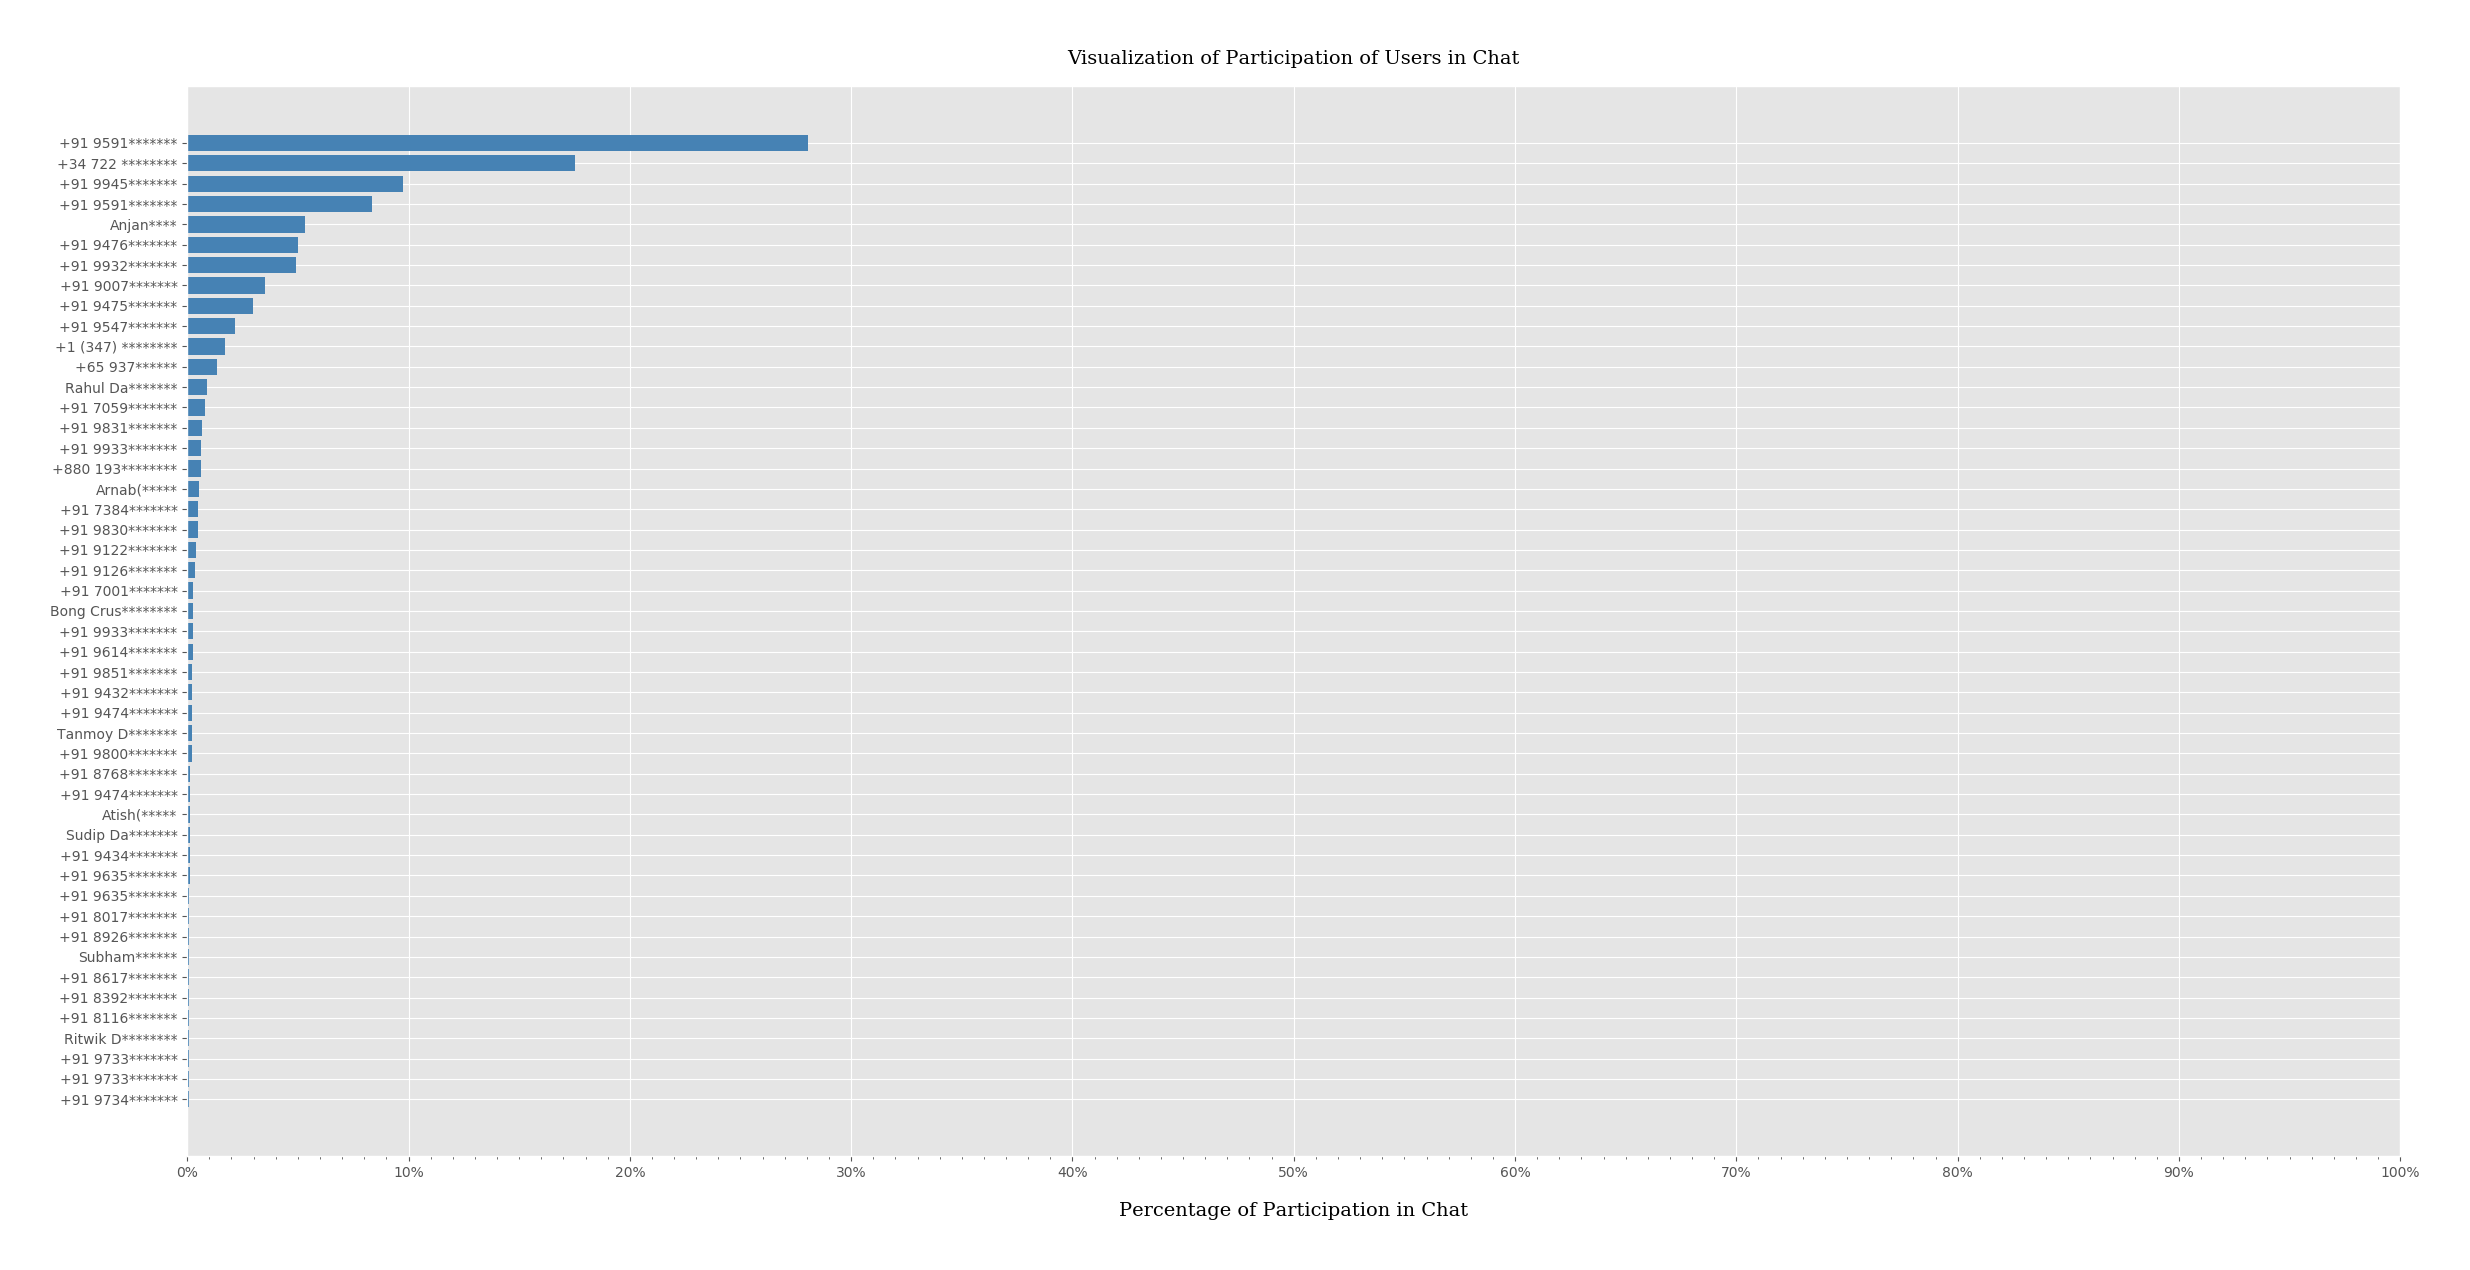
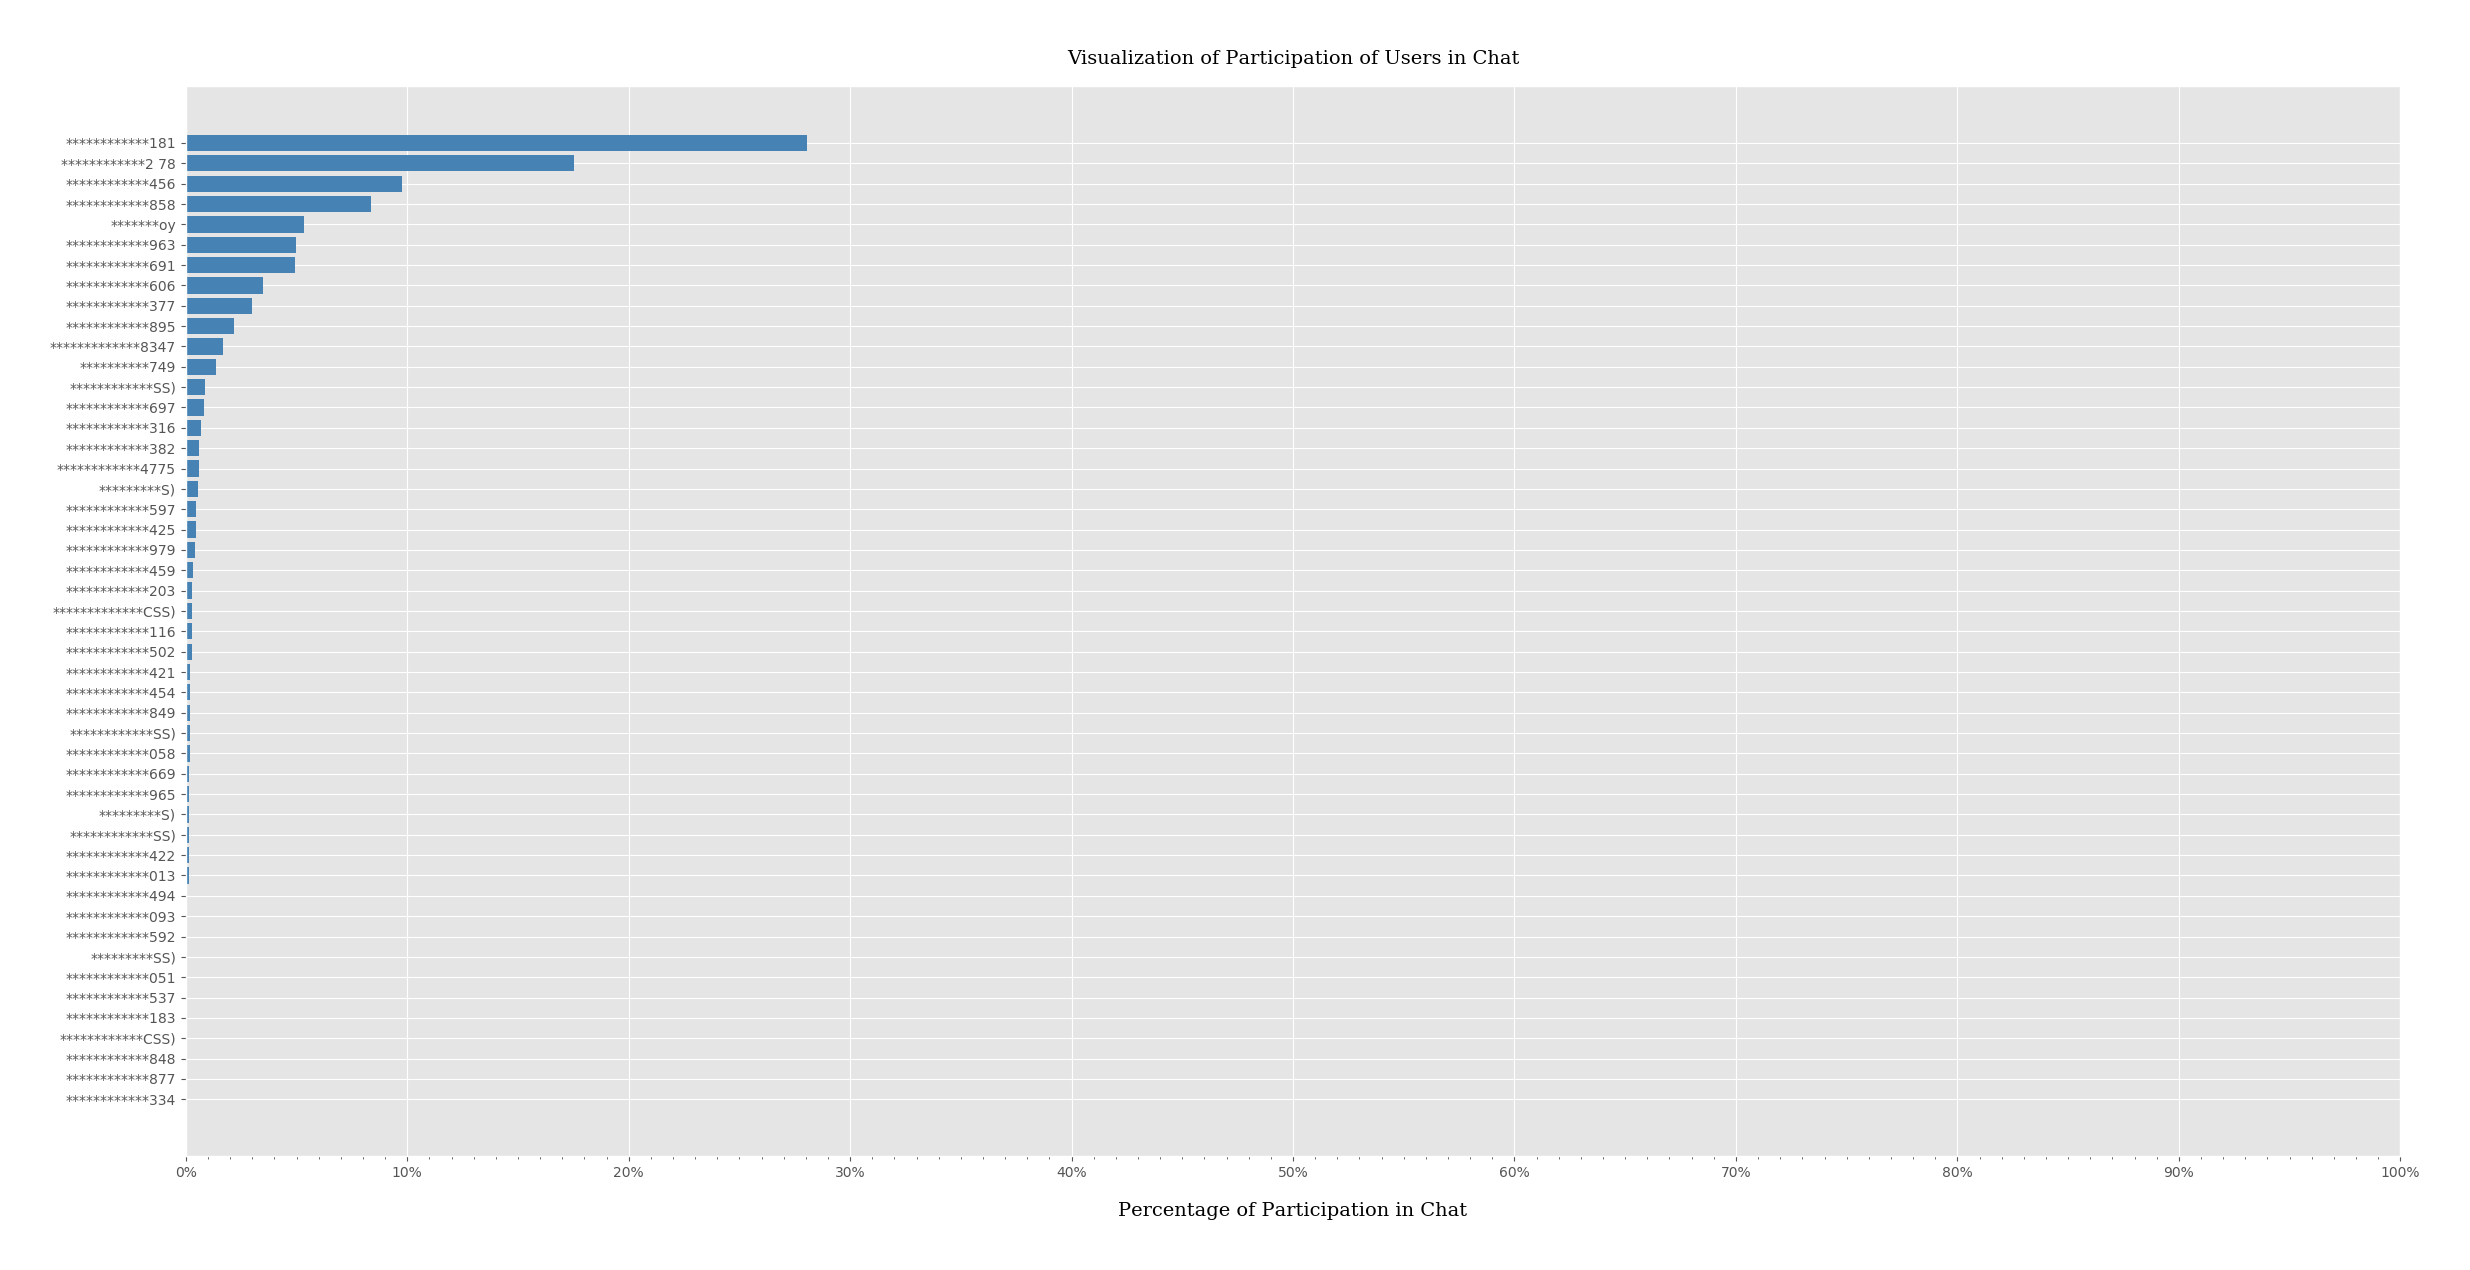
generated activity depictin Pie charts for group participants & updated readme

Changed region(s): [[0.0312, 0.0921, 0.0935, 0.8906], [0.4676, 0.952, 0.4988, 0.9827]]

diff --git a/app.py b/app.py
@@ -18,15 +18,21 @@ def main() -> float:
 
     try:
         return __calculatePercentageOfSuccess__(
-            [  # plotContributionInChatByUser(Chat.importFromText('./data/private.txt'), './plots/participationInPrivateChatByUser.png', 'Visualization of Participation of Users in Chat'),
-                # plotContributionInChatByUser(Chat.importFromText(
-                #  './data/group.txt'), './plots/participationInGroupChatByUser.png', 'Visualization of Participation of Users in Chat'),
+            [plotContributionInChatByUser(Chat.importFromText('./data/private.txt'), './plots/participationInPrivateChatByUser.png', 'Visualization of Participation of Users in Chat'),
+                plotContributionInChatByUser(Chat.importFromText(
+                    './data/group.txt'), './plots/participationInGroupChatByUser.png', 'Visualization of Participation of Users in Chat'),
                 *reduce(lambda acc, cur:
                         [plotContributionOfUserByHour(
                             cur.messages, './plots/contributionInPrivateChatOf{}ByHour.png'.format(
-                                shadeContactName('_'.join(cur.name.split(' ')))),
-                            'Visualization of {}\'s Participation in Private Chat'.format(shadeContactName(cur.name)))] + acc,
-                        Chat.importFromText('./data/private.txt').users, [])])
+                                shadeContactName('_'.join(cur.name.split(' ')), percent=75)),
+                            'Visualization of {}\'s Participation in Private Chat'.format(shadeContactName(cur.name, percent=75)))] + acc,
+                        Chat.importFromText('./data/private.txt').users, []),
+             *reduce(lambda acc, cur:
+                     [plotContributionOfUserByHour(
+                         cur.messages, './plots/contributionInGroupChatOf{}ByHour.png'.format(
+                             shadeContactName('_'.join(cur.name.split(' ')), percent=75)),
+                         'Visualization of {}\'s Participation in Group Chat'.format(shadeContactName(cur.name, percent=75)))] + acc,
+                     Chat.importFromText('./data/group.txt').users, [])])
     except Exception:
         return 0.0
 

diff --git a/util.py b/util.py
@@ -6,6 +6,7 @@ from os import mkdir
 from functools import reduce
 from typing import Dict, List
 from collections import OrderedDict
+from math import ceil
 try:
     from matplotlib import pyplot as plt
     from matplotlib.ticker import MultipleLocator, PercentFormatter
@@ -26,9 +27,9 @@ def directoryBuilder(targetPath: str):
         mkdir(dirName)
 
 
-# shades last half of characters of Contact by `*`, for sake of privacy
-def shadeContactName(name: str) -> str:
-    return name[:-(len(name)//2)]+'*'*(len(name)//2)
+# shades first half of characters of Contact by `*`, for sake of privacy
+def shadeContactName(name: str, percent: float = 50.0, where: str = 'f') -> str:
+    return '*'*ceil(len(name)*percent/100) + name[ceil(len(name)*percent/100):] if where.lower() == 'f' else name[:-ceil(len(name)*percent/100)] + '*'*ceil(len(name)*percent/100)
 
 
 '''
@@ -44,7 +45,7 @@ def plotContributionInChatByUser(chat: Chat, targetPath: str, title: str) -> boo
                    key=lambda e: len(chat.getUser(e).messages))
         y_pos = range(len(y))
         x = [len(chat.getUser(i).messages)/chat.messageCount*100 for i in y]
-        y = [shadeContactName(i) for i in y]
+        y = [shadeContactName(i, percent=75) for i in y]
         with plt.style.context('ggplot'):
             font = {
                 'family': 'serif',

diff --git a/README.md b/README.md
@@ -6,7 +6,7 @@ A simple WhatsApp Chat Analyzer ( for both Private &amp; Group chats ), made wit
 - I was interested in learning how much time I'm spending on WhatsApp _or_ in which conversation I'm more or less involved/ attached _or_ at which part of day I'm more involved in Chatting etc.
 - So I'm writing these scripts for analyzing **WhatsApp** Chat _( both Private & Group )_, which can easily be exported into a _*.txt_ file from WhatsApp Mobile Application.
 - That _*.txt_ is parsed, cleaned & objectified, so that it can be analyzed with ease.
-- For sake of **Privacy** test data file(s), which were used for plotting following chart(s), are kept private.
+- For sake of **Privacy** test data file(s), which were used for plotting following chart(s), are kept private. Also Contact Name(s)/ Number(s) are partially grayed.
 ## chanalysis _( Chat Analysis )_
 ### 1. Participation of Users in Chat
 _Following Bar chart depicts how two participants in a Private Chat contributed to that Chat_
@@ -18,6 +18,74 @@ _This one depicts how participants in a Group Chat contributed to that Chat_
 ![participationInGroupChatByUser](plots/participationInGroupChatByUser.png)
 
 _For sake of **Privacy** Participants' Contact Names/ Numbers are partially grayed_
+
+---
+
+### 2. Contribution of Users in Chat by Hour
+I splitted a day into 8 equal halves and extracted statistics of activity ( mine & others too ) for each of those timespans, to learn when users are more active. And no doubt result was interesting _( atleast for Group Chat :wink: )_.
+
+- 00:00:00 - 02:59:59
+- 03:00:00 - 05:59:59
+- 06:00:00 - 08:59:59
+- 09:00:00 - 11:59:59
+- 12:00:00 - 14:59:59
+- 15:00:00 - 17:59:59
+- 18:00:00 - 20:59:59
+- 21:00:00 - 23:59:59
+
+Following Pie charts show how two participants contributed to a Private chat i.e. how much active were they at which time period.
+
+![activityOfParticipantOne](plots/contributionInPrivateChatOf*******oyByHour.png)
+
+![activityOfParticipantOne](plots/contributionInPrivateChatOf******************atty_\)ByHour.png)
+
+Following Pie charts showing how participants were contributing in a Group Chat.
+
+![activityOfParticipantInGroupChat](plots/contributionInGroupChatOf************SS\)ByHour.png)
+![activityOfParticipantInGroupChat](plots/contributionInGroupChatOf************597ByHour.png)
+![activityOfParticipantInGroupChat](plots/contributionInGroupChatOf************377ByHour.png)
+![activityOfParticipantInGroupChat](plots/contributionInGroupChatOf************965ByHour.png)
+![activityOfParticipantInGroupChat](plots/contributionInGroupChatOf************316ByHour.png)
+![activityOfParticipantInGroupChat](plots/contributionInGroupChatOf************895ByHour.png)
+![activityOfParticipantInGroupChat](plots/contributionInGroupChatOf************494ByHour.png)
+![activityOfParticipantInGroupChat](plots/contributionInGroupChatOf************013ByHour.png)
+![activityOfParticipantInGroupChat](plots/contributionInGroupChatOf*************CSS\)ByHour.png)
+![activityOfParticipantInGroupChat](plots/contributionInGroupChatOf**********749ByHour.png)
+![activityOfParticipantInGroupChat](plots/contributionInGroupChatOf************858ByHour.png)
+![activityOfParticipantInGroupChat](plots/contributionInGroupChatOf*********SS\)ByHour.png)
+![activityOfParticipantInGroupChat](plots/contributionInGroupChatOf************537ByHour.png)
+![activityOfParticipantInGroupChat](plots/contributionInGroupChatOf************334ByHour.png)
+![activityOfParticipantInGroupChat](plots/contributionInGroupChatOf************422ByHour.png)
+![activityOfParticipantInGroupChat](plots/contributionInGroupChatOf************058ByHour.png)
+![activityOfParticipantInGroupChat](plots/contributionInGroupChatOf*************8347ByHour.png)
+![activityOfParticipantInGroupChat](plots/contributionInGroupChatOf************456ByHour.png)
+![activityOfParticipantInGroupChat](plots/contributionInGroupChatOf************4775ByHour.png)
+![activityOfParticipantInGroupChat](plots/contributionInGroupChatOf************181ByHour.png)
+![activityOfParticipantInGroupChat](plots/contributionInGroupChatOf************691ByHour.png)
+![activityOfParticipantInGroupChat](plots/contributionInGroupChatOf************459ByHour.png)
+![activityOfParticipantInGroupChat](plots/contributionInGroupChatOf************093ByHour.png)
+![activityOfParticipantInGroupChat](plots/contributionInGroupChatOf************979ByHour.png)
+![activityOfParticipantInGroupChat](plots/contributionInGroupChatOf************697ByHour.png)
+![activityOfParticipantInGroupChat](plots/contributionInGroupChatOf************183ByHour.png)
+![activityOfParticipantInGroupChat](plots/contributionInGroupChatOf************502ByHour.png)
+![activityOfParticipantInGroupChat](plots/contributionInGroupChatOf************606ByHour.png)
+![activityOfParticipantInGroupChat](plots/contributionInGroupChatOf*******oyByHour.png)
+![activityOfParticipantInGroupChat](plots/contributionInGroupChatOf************849ByHour.png)
+![activityOfParticipantInGroupChat](plots/contributionInGroupChatOf************116ByHour.png)
+![activityOfParticipantInGroupChat](plots/contributionInGroupChatOf************CSS\)ByHour.png)
+![activityOfParticipantInGroupChat](plots/contributionInGroupChatOf************421ByHour.png)
+![activityOfParticipantInGroupChat](plots/contributionInGroupChatOf************848ByHour.png)
+![activityOfParticipantInGroupChat](plots/contributionInGroupChatOf************963ByHour.png)
+![activityOfParticipantInGroupChat](plots/contributionInGroupChatOf************2_78ByHour.png)
+![activityOfParticipantInGroupChat](plots/contributionInGroupChatOf************051ByHour.png)
+![activityOfParticipantInGroupChat](plots/contributionInGroupChatOf*********S\)ByHour.png)
+![activityOfParticipantInGroupChat](plots/contributionInGroupChatOf************454ByHour.png)
+![activityOfParticipantInGroupChat](plots/contributionInGroupChatOf************877ByHour.png)
+![activityOfParticipantInGroupChat](plots/contributionInGroupChatOf************592ByHour.png)
+![activityOfParticipantInGroupChat](plots/contributionInGroupChatOf************203ByHour.png)
+![activityOfParticipantInGroupChat](plots/contributionInGroupChatOf************425ByHour.png)
+![activityOfParticipantInGroupChat](plots/contributionInGroupChatOf************382ByHour.png)
+![activityOfParticipantInGroupChat](plots/contributionInGroupChatOf************669ByHour.png)
 
 ---
 
